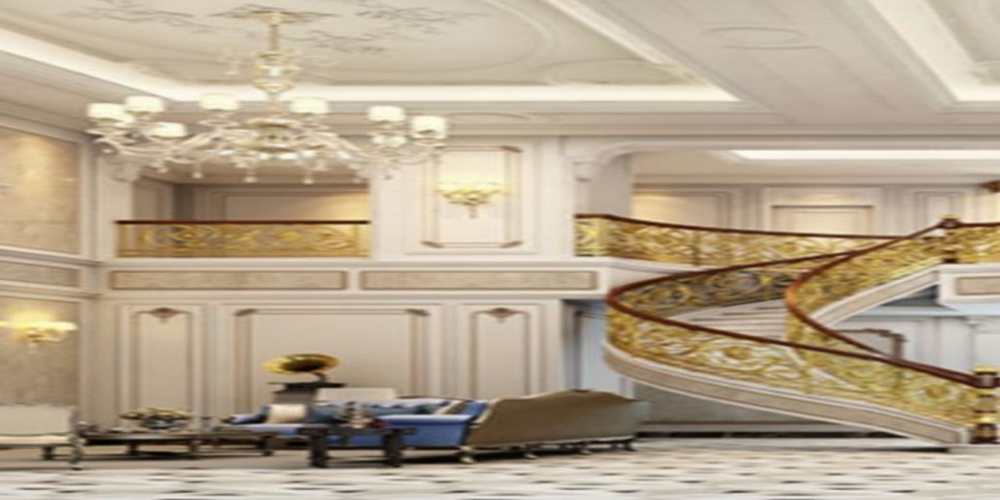
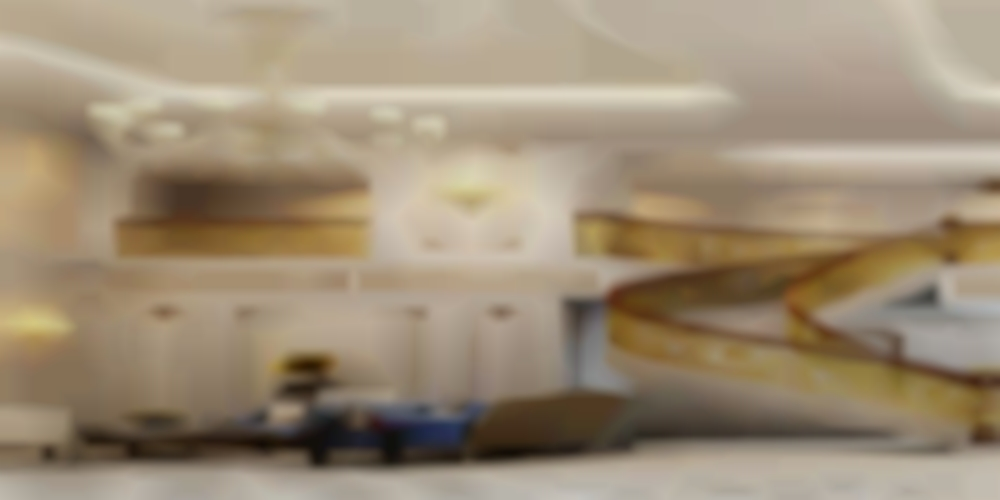
images update

diff --git a/src/components/Mainvue.vue b/src/components/Mainvue.vue
@@ -745,7 +745,7 @@ function gotosuggestion()
             color="#15a2ff"
       ></v-progress-circular>
   </div>
-  <v-conainer id="home">
+  <v-container id="home">
     <Banner v-for="doss in tabrent" :key="doss.id" v-if="isrentbannerloaded"
             :houseimage="doss.houseimage"
             :title1="doss.title1"
@@ -755,7 +755,7 @@ function gotosuggestion()
             :buttontitle="doss.buttontitle"
             @exploring="scroll('rent')">
     </Banner>
-  </v-conainer>
+  </v-container>
 
     <v-container id="rent" v-if="isrentcontainerloaded">
       <div class="renthousecontainer">
@@ -878,7 +878,7 @@ function gotosuggestion()
       </div>
     </v-container>
     <v-footer v-if="isfootershow" color="#000000">
-
+        <p class="text-subtitle-1">All the images are intentionally distorted but not a bugs.</p>
     </v-footer>
 </template>
 
